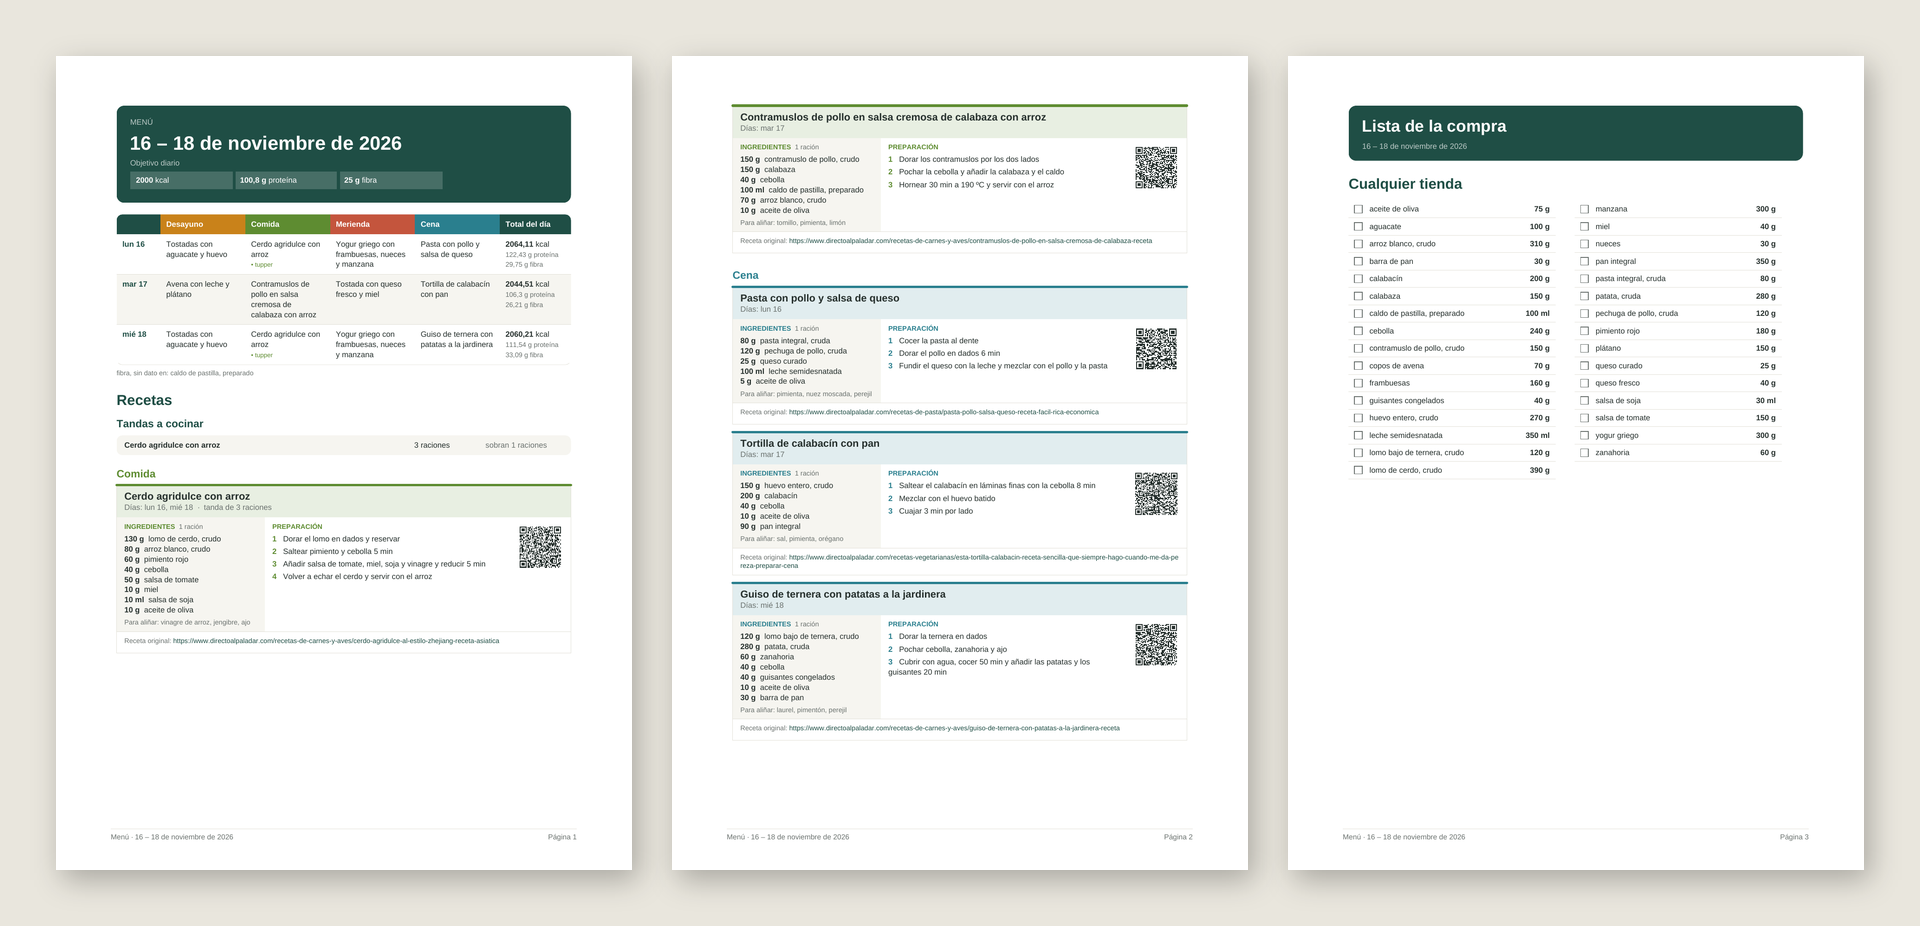
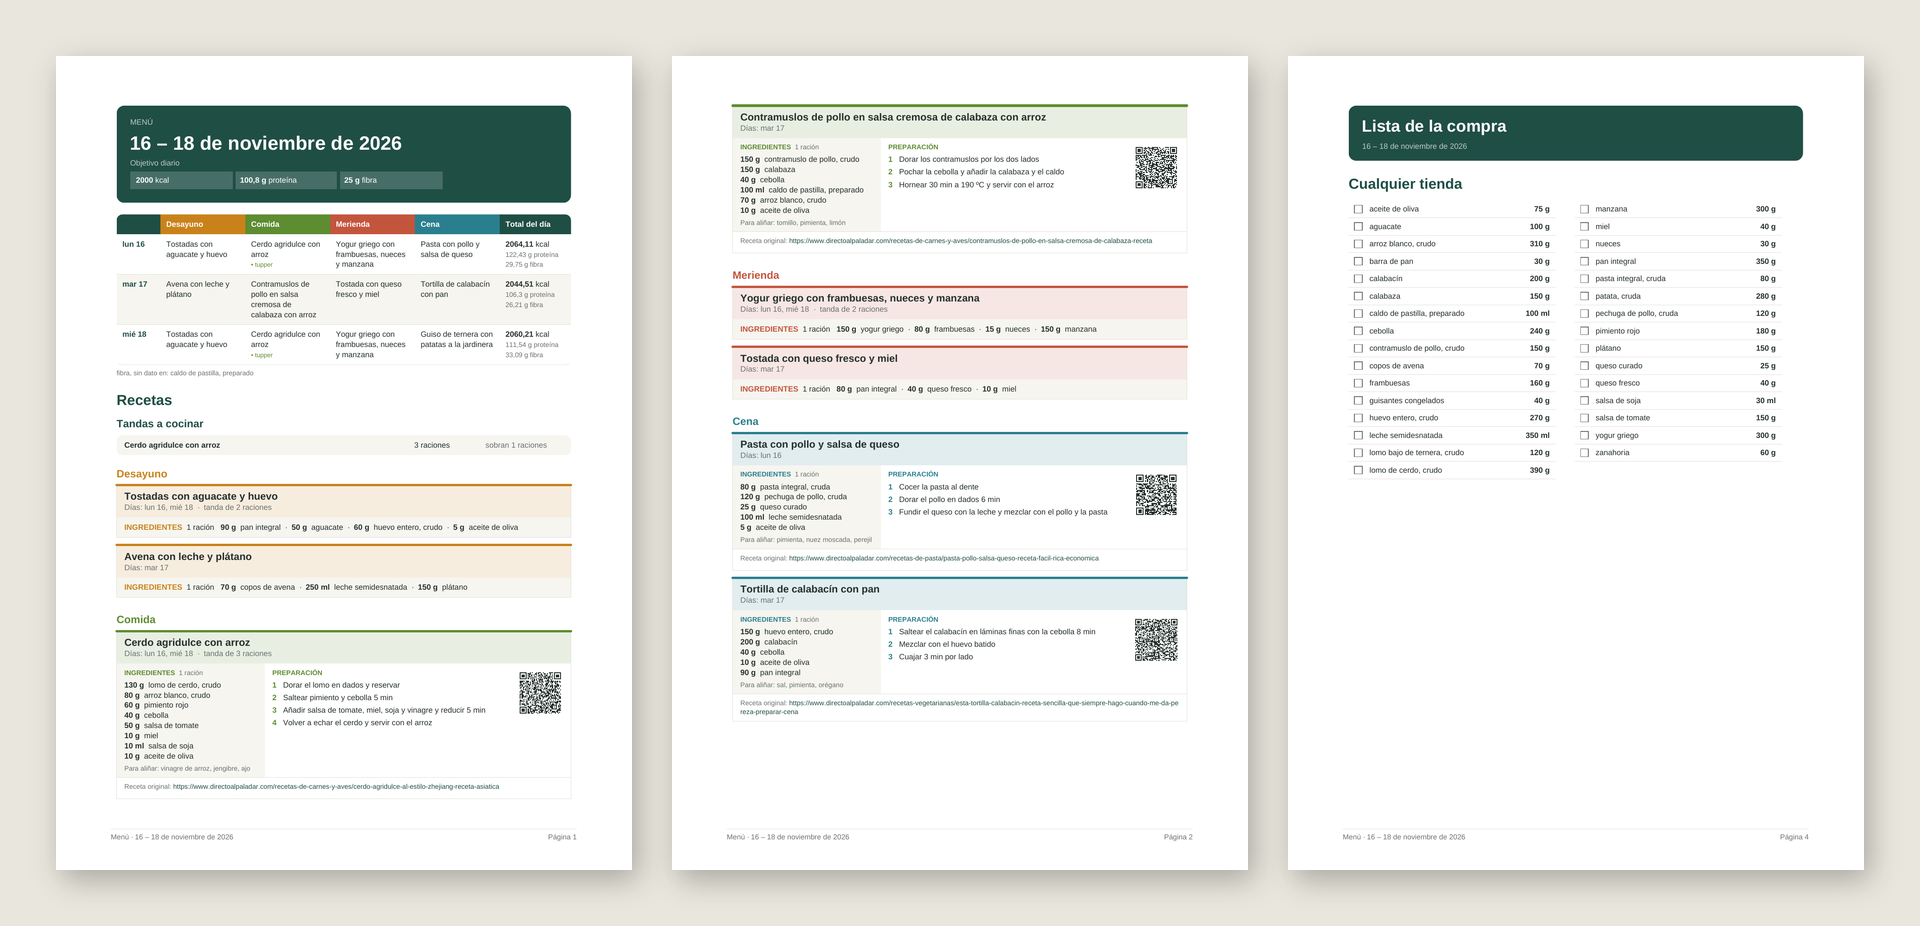
docs: README menu image shows the amounts cards (#36)
Re-rendered from an invented three-day client after #35: pages 1, 2 and 4
of the exported PDF, so the breakfast and snack amount cards are visible.

Changed region(s): [[0.375, 0.2721, 0.625, 0.7862], [0.0625, 0.4838, 0.3125, 0.8769], [0.5938, 0.514, 0.625, 0.5745]]

diff --git a/assets/README.md b/assets/README.md
@@ -8,8 +8,10 @@ The pictures in the main README. They are under CC BY 4.0 like the rest of the c
   (`coach macros`, `coach strength progress --exercise squat`, then
   `coach profile set screening.cardiac_symptoms true` and the same progression again). Some JSON
   fields are left out, marked with `…`.
-- `menu-pdf.png`: the three pages of a three-day menu exported with `coach mealplan export` for an
-  invented client, rendered with `pdftoppm -r 150` and laid side by side with Pillow.
+- `menu-pdf.png`: pages 1, 2 and 4 of a three-day menu exported with `coach mealplan export` for
+  an invented client (the week with the first cards, more recipe and amount cards, the shopping
+  list; page 3 holds the last recipe), rendered with `pdftoppm -r 150` and laid side by side with
+  Pillow.
 
 No personal data went into any of them. When a command's output changes, re-record the demo from
 a fresh data folder with an invented client rather than editing the image.

diff --git a/README.md b/README.md
@@ -71,7 +71,7 @@ recipe once as a card with a link (and QR code) to its source, the amounts of ev
 without a recipe (breakfasts, snacks), and a shopping list grouped by shop with boxes to tick:
 
 <p align="center">
-  <img src="assets/menu-pdf.png" alt="Exported menu PDF: the week at a glance, recipe cards with QR codes, and the shopping list" width="960">
+  <img src="assets/menu-pdf.png" alt="Exported menu PDF: the week at a glance, recipe cards with QR codes, the amounts of breakfasts and snacks, and the shopping list" width="960">
 </p>
 
 `/menu` can look up supermarket products in [Open Food Facts](https://world.openfoodfacts.org)
